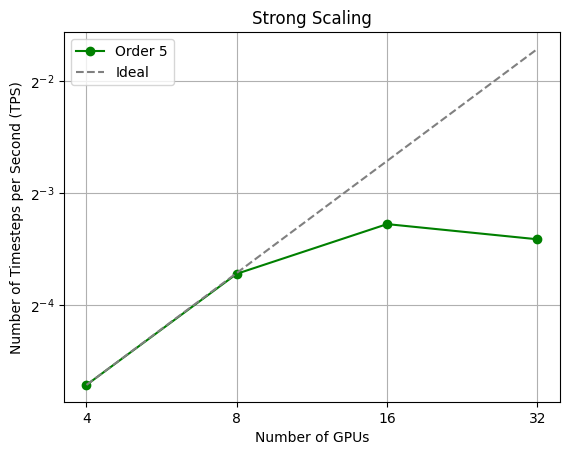
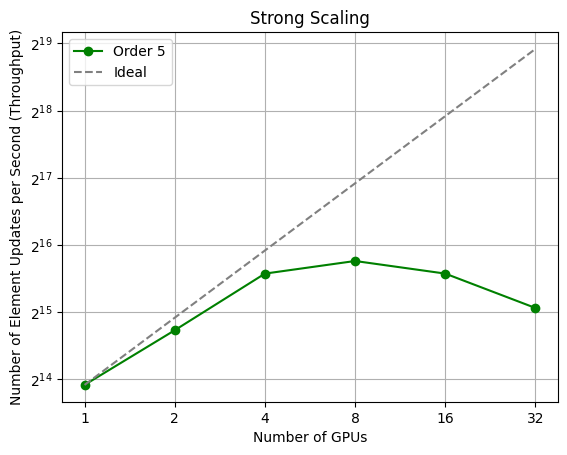
Update scaling plots

diff --git a/python/exahype2/ExaHyPEMain.template.cpp b/python/exahype2/ExaHyPEMain.template.cpp
@@ -38,9 +38,6 @@
 #include "toolbox/blockstructured/UnitTests.h"
 #include "toolbox/loadbalancing/loadbalancing.h"
 
-//#include <scorep/SCOREP_User.h>
-//SCOREP_USER_REGION_DEFINE(timeStepHandle)
-
 {% if FENV_ARGS is defined and FENV_ARGS != "" -%}
 #include <fenv.h>
 #pragma float_control(precise, on)
@@ -51,7 +48,7 @@ using namespace {{NAMESPACE | join("::")}};
 
 tarch::logging::Log _log("::");
 
-tarch::timing::Measurement tpsMeasurement;
+tarch::timing::Measurement throughputMeasurement;
 tarch::timing::Measurement gridConstructionMeasurement;
 tarch::timing::Measurement timeStepMeasurement;
 tarch::timing::Measurement plotMeasurement;
@@ -276,8 +273,8 @@ void step() {
 
     repositories::finishGridConstructionStep();
 
-    // We always overestimate so give the convergence the opportunity to catch up. The constant
-    // here is a magic one.
+    // We always overestimate so give the convergence the opportunity to catch up.
+    // The constant here is a magic one.
     creepingNumberOfLocalCells = ::toolbox::loadbalancing::getWeightOfHeaviestLocalSpacetree()
                                  + tarch::multicore::Core::getInstance().getNumberOfThreads() * 3;
   } break;
@@ -332,12 +329,12 @@ void step() {
     repositories::finishGridConstructionStep();
 
     if (
-          ::toolbox::loadbalancing::getWeightOfHeaviestLocalSpacetree() <= creepingNumberOfLocalCells
-          and
-          not repositories::loadBalancer.hasSplitRecently()
-          and
-          repositories::loadBalancer.isEnabled(false)
-        ) {
+      ::toolbox::loadbalancing::getWeightOfHeaviestLocalSpacetree() <= creepingNumberOfLocalCells
+      and
+      not repositories::loadBalancer.hasSplitRecently()
+      and
+      repositories::loadBalancer.isEnabled(false)
+    ) {
       logInfo(
         "step()",
         "Have to decrement local cell counter "
@@ -423,17 +420,31 @@ void step() {
 
     observers::TimeStep observer;
     watch.start();
-
-    //SCOREP_USER_REGION_BEGIN(timeStepHandle, "timeStep", SCOREP_USER_REGION_TYPE_FUNCTION)
     peano4::parallel::SpacetreeSet::getInstance().traverse(observer);
-    //SCOREP_USER_REGION_END(timeStepHandle)
     watch.stop();
     timeStepMeasurement.setValue(watch.getCalendarTime());
 
-    const double ticksPerSecond = double(1.0 / watch.getCalendarTime());
-    tpsMeasurement.setValue(ticksPerSecond);
+    const auto numberOfCells = peano4::parallel::SpacetreeSet::getInstance().getGridStatistics().getNumberOfLocalUnrefinedCells();
+    int globalNumberOfCells = 0;
+#ifdef Parallel
+    tarch::mpi::Rank::getInstance().reduce(
+      &numberOfCells,
+      &globalNumberOfCells,
+      1,
+      MPI_INT,
+      MPI_SUM,
+      tarch::mpi::Rank::getGlobalMasterRank(),
+      [&]() -> void { tarch::services::ServiceRepository::getInstance().receiveDanglingMessages(); }
+    );
+#else
+    globalNumberOfCells = numberOfCells;
+#endif
+
+    const int throughput = globalNumberOfCells / watch.getCalendarTime();
+    throughputMeasurement.setValue(throughput);
     if (tarch::mpi::Rank::getInstance().isGlobalMaster()) {
-      logInfo("step()", "TPS: " << std::fixed << std::setprecision(4) << ticksPerSecond);
+      logInfo("step()", "Number of Cells: " << globalNumberOfCells);
+      logInfo("step()", "Throughput: " << throughput << " cells/s");
     }
 
     OTTER_TASK_WAIT_FOR(step_task, children);
@@ -529,21 +540,19 @@ int main(int argc, char** argv) {
         logInfo("main()", "Terminated successfully");
         logInfo(
           "main()",
-          "Initial grid construction: " << gridConstructionMeasurement.getAccumulatedValue(
-          ) << "s\t" << gridConstructionMeasurement.toString()
+          "Initial grid construction: " << gridConstructionMeasurement.getAccumulatedValue() << " s\t" << gridConstructionMeasurement.toString()
         );
         logInfo(
           "main()",
-          "Plotting:                  " << plotMeasurement.getAccumulatedValue() << "s\t" << plotMeasurement.toString()
+          "Plotting:                  " << plotMeasurement.getAccumulatedValue() << " s\t" << plotMeasurement.toString()
         );
         logInfo(
           "main()",
-          "Time stepping:             " << timeStepMeasurement.getAccumulatedValue(
-          ) << "s\t" << timeStepMeasurement.toString()
+          "Time stepping:             " << timeStepMeasurement.getAccumulatedValue() << " s\t" << timeStepMeasurement.toString()
         );
         logInfo(
           "main()",
-          "TPS:                       " << tpsMeasurement.getValue() << "\t" << tpsMeasurement.toString()
+          "Throughput:                " << throughputMeasurement.getValue() << " cells/s\t" << throughputMeasurement.toString()
         );
       } else if (isPeanoComputeNode) {
         while (peano4::parallel::Node::getInstance().continueToRun()) {

diff --git a/configure.py b/configure.py
@@ -307,8 +307,7 @@ if args.cmake:
 
     # Create a string to display environment variables like in a terminal
     if args.scorep:
-        # --thread=omp:ompt
-        env_vars_str = "SCOREP_WRAPPER=OFF SCOREP_WRAPPER_INSTRUMENTER_FLAGS=\"--user --nocompiler\" " + " ".join(f'{key}="{value}"' for key, value in env_vars.items())
+        env_vars_str = "SCOREP_WRAPPER=OFF SCOREP_WRAPPER_INSTRUMENTER_FLAGS=\"--user --nocompiler --thread=omp:ompt\" " + " ".join(f'{key}="{value}"' for key, value in env_vars.items())
     else:
         env_vars_str = " ".join(f'{key}="{value}"' for key, value in env_vars.items())
 
@@ -370,8 +369,7 @@ else:
 
     # Create a string to display environment variables like in a terminal
     if args.scorep:
-        # --thread=omp:ompt
-        env_vars_str = "SCOREP_WRAPPER=OFF SCOREP_WRAPPER_INSTRUMENTER_FLAGS=\"--user --nocompiler\" " + " ".join(f'{key}="{value}"' for key, value in env_vars.items())
+        env_vars_str = "SCOREP_WRAPPER=OFF SCOREP_WRAPPER_INSTRUMENTER_FLAGS=\"--user --nocompiler --thread=omp:ompt\" " + " ".join(f'{key}="{value}"' for key, value in env_vars.items())
     else:
         env_vars_str = " ".join(f'{key}="{value}"' for key, value in env_vars.items())
 

diff --git a/applications/exahype2/exaseis/scaling-plot.py b/applications/exahype2/exaseis/scaling-plot.py
@@ -24,11 +24,11 @@ plt.rcParams.update(
 
 output_file_name = "scaling-plot_GPUs_Leonardo"
 output_format = "png"
-title = "Strong Scaling - 1 GPU per Node"
-xlabel = "Number of Nodes"
-ylabel = "Number of Timesteps per Second (TPS)"
-label = "Order 7"
-plot_color = "red"
+title = "Strong Scaling"
+xlabel = "Number of GPUs"
+ylabel = "Number of Element Updates per Second (Throughput)"
+label = "Order 6"
+plot_color = "blue"
 log_x = True
 log_y = True
 
@@ -60,8 +60,8 @@ def parse_file(file_path):
             if 'Terminated successfully' in line:
                 throughput_value = -1
 
-            if 'TPS:' in line and throughput_value == -1:
-                throughput_value = float(line.split('TPS:')[1].split()[0])
+            if 'Throughput:' in line and throughput_value == -1:
+                throughput_value = float(line.split('Throughput:')[1].split()[0])
 
             if num_ranks is not None and num_cores is not None and num_gpus is not None and \
                 (throughput_value is not None and throughput_value is not -1):

diff --git a/applications/exahype2/exaseis/LOH1/README.md b/applications/exahype2/exaseis/LOH1/README.md
@@ -9,42 +9,42 @@ Currently, the ExaSeis framework implements LOH.1 similar to as seen below.
 In the following some example configurations are given:
 
 ```shell
-python3 exaseis.py -s ADERDGRusanovGlobalAdaptive --min-levels 1 --amr-levels 0
+python3 exaseis.py -s ADERDGRusanovGlobalFixedEnclave --stateless --min-levels 1 --amr-levels 0
 ```
 Yields 27 patches.
 
 ```shell
-python3 exaseis.py -s ADERDGRusanovGlobalAdaptive --min-levels 2 --amr-levels 0
+python3 exaseis.py -s ADERDGRusanovGlobalFixedEnclave --stateless --min-levels 2 --amr-levels 0
 ```
 Yields 729 patches.
 
 ```shell
-python3 exaseis.py -s ADERDGRusanovGlobalAdaptive --min-levels 3 --amr-levels 0 --dg-order 5
+python3 exaseis.py -s ADERDGRusanovGlobalFixedEnclave --stateless --min-levels 3 --amr-levels 0 --dg-order 5
 ```
 Yields 19683 patches and requires ~3 GB of memory.
 
 ```shell
-python3 exaseis.py -s ADERDGRusanovGlobalAdaptive --min-levels 3 --amr-levels 0 --dg-order 7
+python3 exaseis.py -s ADERDGRusanovGlobalFixedEnclave --stateless --min-levels 3 --amr-levels 0 --dg-order 7
 ```
 Yields 19683 patches and requires ~6 GB of memory.
 
 ```shell
-python3 exaseis.py -s ADERDGRusanovGlobalAdaptive --min-levels 4 --amr-levels 0 --dg-order 3
+python3 exaseis.py -s ADERDGRusanovGlobalFixedEnclave --stateless --min-levels 4 --amr-levels 0 --dg-order 3
 ```
 Yields 531441 patches and requires ~25 GB of memory.
 
 ```shell
-python3 exaseis.py -s ADERDGRusanovGlobalAdaptive --min-levels 4 --amr-levels 0 --dg-order 4
+python3 exaseis.py -s ADERDGRusanovGlobalFixedEnclave --stateless --min-levels 4 --amr-levels 0 --dg-order 4
 ```
 Yields 531441 patches and requires ~42 GB of memory.
 
 ```shell
-python3 exaseis.py -s ADERDGRusanovGlobalAdaptive --min-levels 4 --amr-levels 0 --dg-order 5
+python3 exaseis.py -s ADERDGRusanovGlobalFixedEnclave --stateless --min-levels 4 --amr-levels 0 --dg-order 5
 ```
 Yields 531441 patches and requires ~62 GB of memory.
 
 ```shell
-python3 exaseis.py -s ADERDGRusanovGlobalAdaptive --min-levels 5 --amr-levels 0 --dg-order 3
+python3 exaseis.py -s ADERDGRusanovGlobalFixedEnclave --stateless --min-levels 5 --amr-levels 0 --dg-order 3
 ```
 Yields 14348907 patches and requires >>250 GB of memory.
 
@@ -82,7 +82,7 @@ A job script for Leonardo can be found in this application's directory.
 ## Scaling Results
 
 ```shell
-python3 exaseis.py -s ADERDGRusanovGlobalAdaptiveEnclave --stateless --min-levels 4 --amr-levels 0 --dg-order 6 -f 5000
+python3 exaseis.py -s ADERDGRusanovGlobalFixedEnclave --stateless --min-levels 4 --amr-levels 0 --dg-order 7 -f 5000
 ```
 
 ![](scaling-plot_GPUs_Leonardo_Order_5.png)
@@ -90,11 +90,5 @@ python3 exaseis.py -s ADERDGRusanovGlobalAdaptiveEnclave --stateless --min-level
 ![](scaling-plot_GPUs_Leonardo_Order_6.png)
 
 ![](scaling-plot_GPUs_Leonardo_Order_7.png)
-
-![](scaling-plot_Leonardo_1_GPU_per_Node_Order_5.png)
-
-![](scaling-plot_Leonardo_1_GPU_per_Node_Order_6.png)
-
-![](scaling-plot_Leonardo_1_GPU_per_Node_Order_7.png)
 
 ## Score-P
